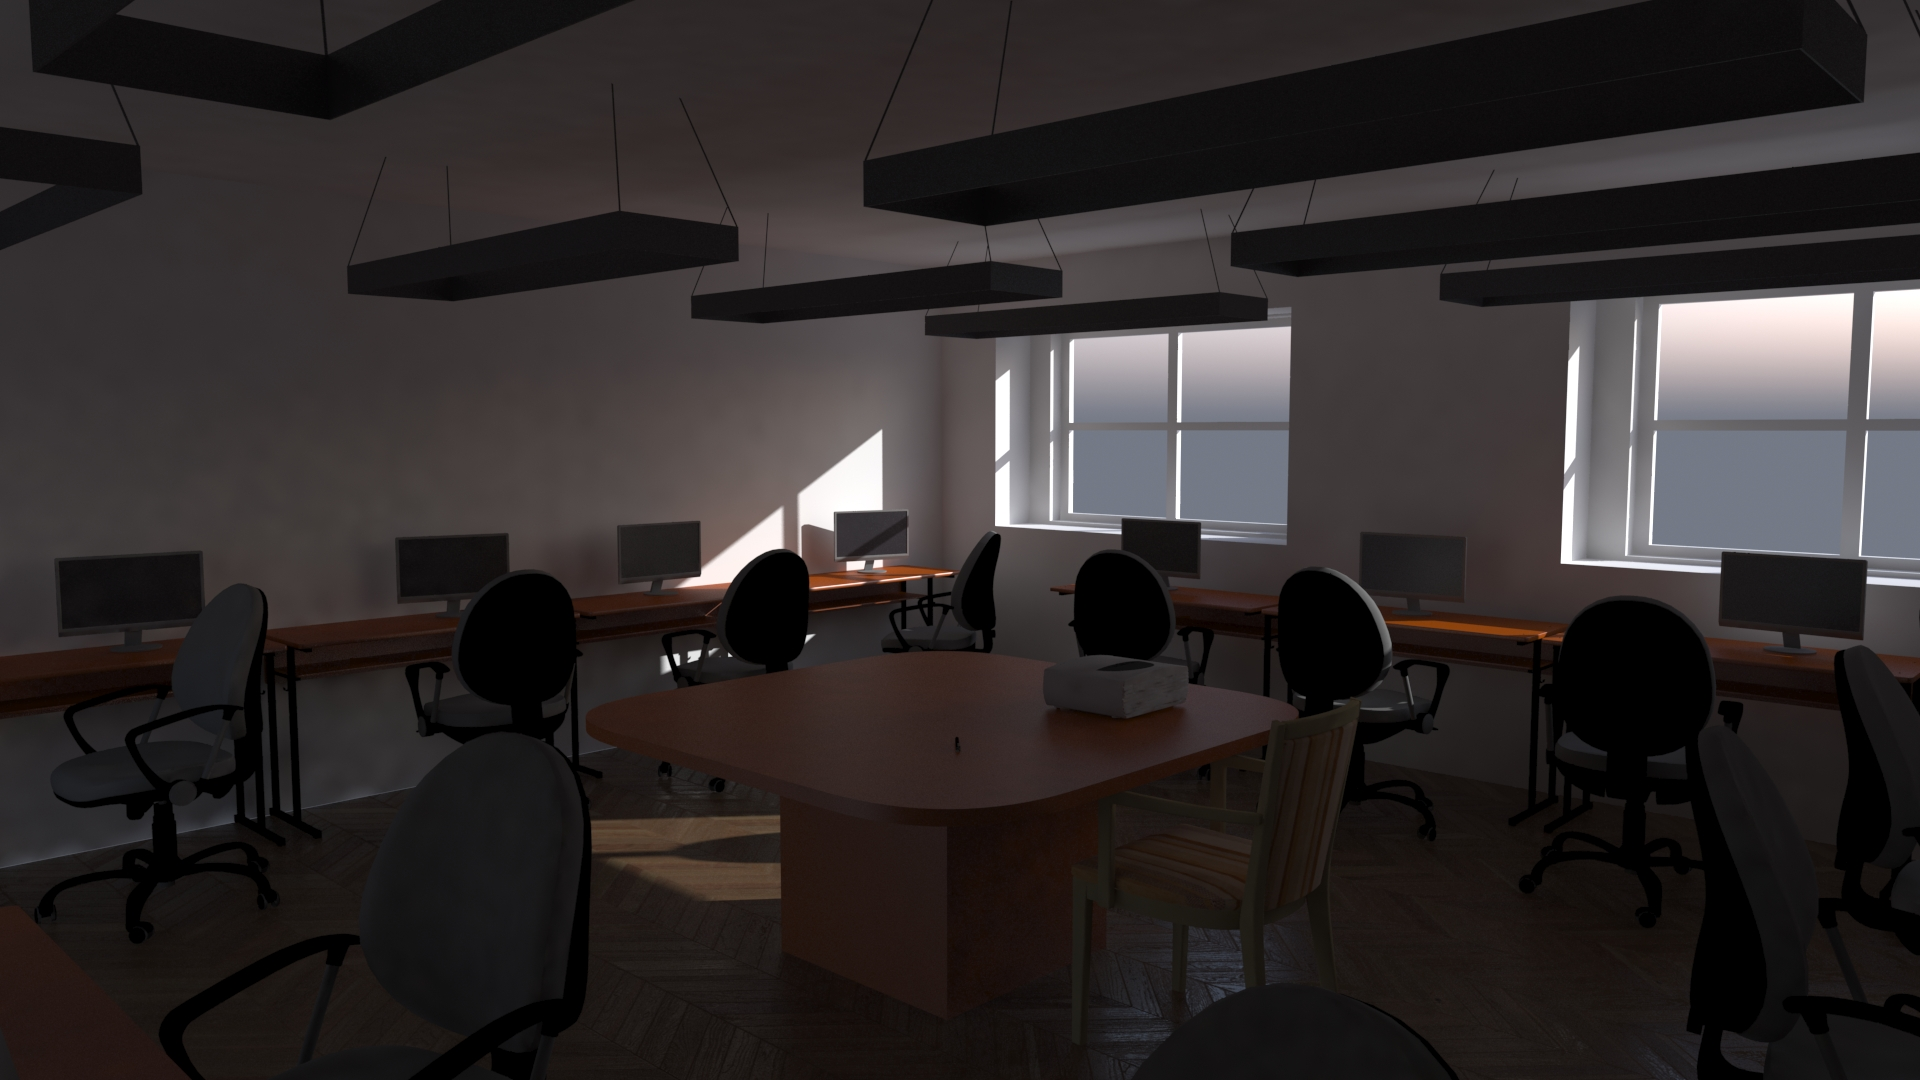
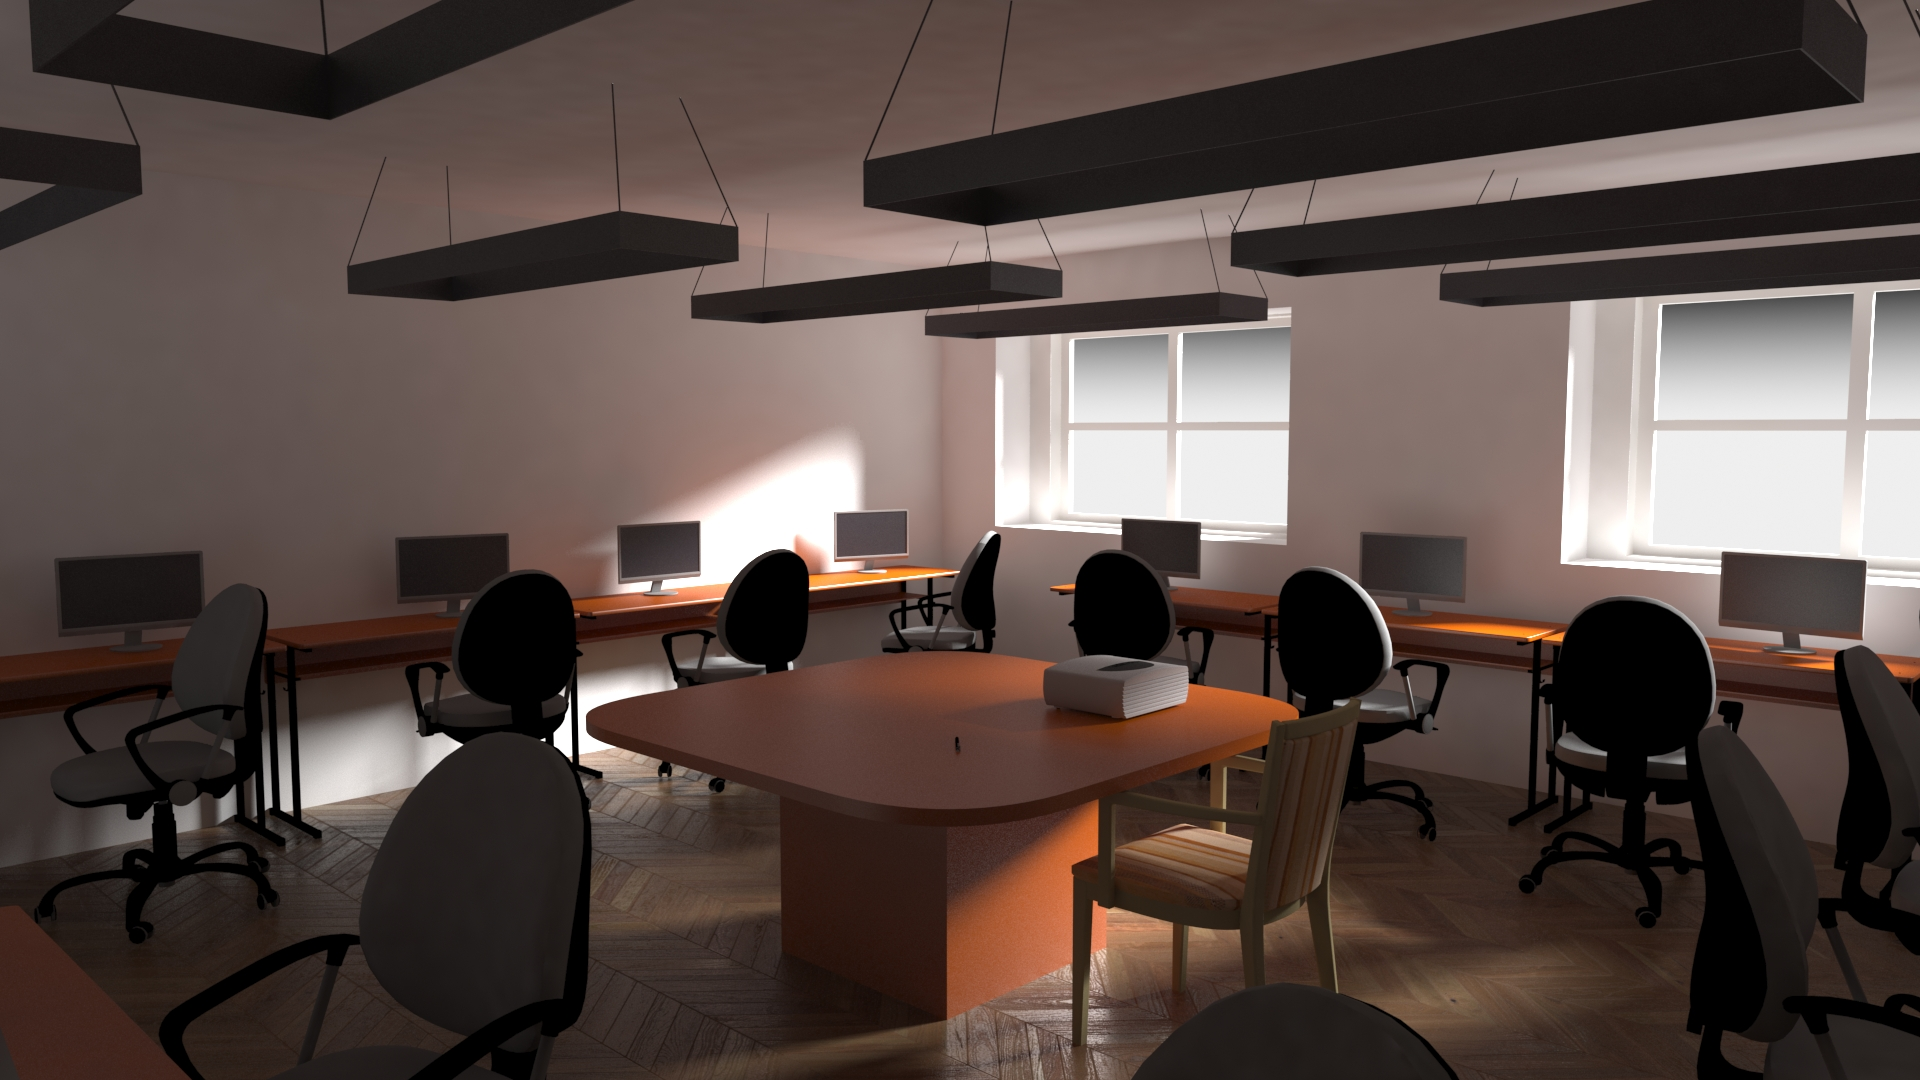
Visualization working, project data optimization.
Version ready for promotor's meeting on 26.11.2019.

- optimized way of presenting Visualization:
(one night asset with no lights, one day asset with no lights, assets for each light and direction separately) for each camera
- removed sun switching
- changed npm package for socket io
- prepared simple Visualization algotithm based on feelings
- provided 'updateVisualization' action refreshing whole interface relying on store state and data from sensor
- added some nice styling for dashboard
- fixed web socket not receiving data after refresh bug, but NOTE that each refresh now adds new serialport listener (check server index.js change)

diff --git a/client/src/components/LightsController.vue b/client/src/components/LightsController.vue
@@ -29,7 +29,7 @@
                     </p>
                     <div class="choices">
                         <span
-                            v-for="choice in envConfig.pos"
+                            v-for="choice in config.cameraPositions"
                             :key="choice"
                             class="choice"
                             :class="{ 'choice--active': choice === pos }"
@@ -38,28 +38,13 @@
                         >
                     </div>
                 </div>
-                <!-- <div class="controller__field">
-                    <p class="title">
-                        Pozycja słońca:
-                    </p>
-                    <div class="choices">
-                        <span
-                            v-for="choice in envConfig.sun"
-                            :key="choice"
-                            class="choice"
-                            :class="{ 'choice--active': choice === sun }"
-                            @click="switchSun(choice)"
-                            >{{ choice }}</span
-                        >
-                    </div>
-                </div> -->
                 <div class="controller__field">
                     <p class="title">
                         Kierunek świecenia:
                     </p>
                     <div class="choices">
                         <span
-                            v-for="choice in lightsConfig.types"
+                            v-for="choice in config.lightsTypes"
                             :key="choice"
                             class="choice"
                             :class="{
@@ -105,7 +90,7 @@
                 >
                     <p>{{ light.type === "D" ? light.index : "" }}</p>
                     <p>{{ light.type }}</p>
-                    <p>{{ light.value * 250 }} lx</p>
+                    <p>{{ light.value * 100 }}%</p>
                 </div>
             </div>
         </transition>
@@ -123,17 +108,11 @@ export default {
         };
     },
     computed: {
-        envConfig() {
-            return this.$store.state.envConfig;
-        },
-        lightsConfig() {
-            return this.$store.state.lightsConfig;
+        config() {
+            return this.$store.state.config;
         },
         pos() {
             return this.$store.state.pos;
-        },
-        sun() {
-            return this.$store.state.sun;
         },
         direction() {
             return this.$store.state.direction;
@@ -153,9 +132,6 @@ export default {
         switchPos(pos) {
             this.$store.dispatch("switchPos", pos);
         },
-        switchSun(sun) {
-            this.$store.dispatch("switchSun", sun);
-        },
         toggleDir(dir) {
             this.$store.dispatch("toggleDir", dir);
         },
@@ -163,6 +139,7 @@ export default {
             return require(`@/assets/img/svg/${tab}.svg`);
         },
         updateVisualization() {
+            this.$store.dispatch("showLoading", 500);
             this.$store.dispatch("updateVisualization");
         }
     }
@@ -218,12 +195,13 @@ export default {
     color: #888;
     align-self: center;
     margin-top: auto;
-    padding: 0.5rem 0;
+    padding: 0.5rem;
+    font-style: italic;
 
     & p {
-        font-style: italic;
         color: #aaa;
         font-size: 0.75rem;
+        text-align: right;
     }
 }
 </style>

diff --git a/client/src/store/index.js b/client/src/store/index.js
@@ -7,20 +7,16 @@ Vue.use(Vuex);
 
 export default new Vuex.Store({
     state: {
-        envConfig: {
-            pos: [1, 2],
-            sun: [0, 1]
+        config: {
+            cameraPositions: [1, 2],
+            lightsNum: 8,
+            lightsTypes: ["D", "G"]
         },
+        lights: [],
         lightLevel: 0,
-        lightsConfig: {
-            num: 8,
-            types: ["D", "G"]
-        },
-        sunValue: 1,
-        sun: 0,
-        pos: 2,
-        direction: ["D"],
-        lights: []
+        sunLevel: 1,
+        pos: 1,
+        direction: ["D"]
     },
     mutations: {
         updateLightLevel(state, data) {
@@ -32,9 +28,6 @@ export default new Vuex.Store({
         },
         switchPos(state, pos) {
             state.pos = pos;
-        },
-        switchSun(state, sun) {
-            state.sun = sun;
         },
         toggleDir(state, dir) {
             const dirIndex = state.direction.indexOf(dir);
@@ -60,10 +53,6 @@ export default new Vuex.Store({
         switchPos(context, pos) {
             context.commit("showLoading", 500);
             context.commit("switchPos", pos);
-        },
-        switchSun(context, sun) {
-            context.commit("showLoading", 500);
-            context.commit("switchSun", sun);
         },
         toggleDir(context, dir) {
             context.commit("toggleDir", dir);

diff --git a/client/src/assets/scss/components/_home.scss b/client/src/assets/scss/components/_home.scss
@@ -6,19 +6,32 @@
     position: relative;
     width: 100%;
     height: calc(100vh - $dashboard-height);
-    background-color: #2a2a2a;
+    background-color: $color-grey-dark;
     overflow: hidden;
 
     &__header {
+        position: relative;
         display: flex;
         justify-content: space-between;
         height: $dashboard-height;
         padding: 0 $dashboard-height * 0.4;
 
         & p {
+            z-index: 1000;
             color: #fff;
             font-size: 1.3rem;
             line-height: $dashboard-height;
+        }
+
+        &::before {
+            content: "";
+            position: absolute;
+            top: -975%;
+            left: -90%;
+            width: 100%;
+            height: 1000px;
+            transform: rotateZ(-45deg);
+            background-color: lighten($color-grey-dark, 5%);
         }
     }
 

diff --git a/server/index.js b/server/index.js
@@ -23,17 +23,21 @@ portArduino.pipe(parser);
 // app.use(bodyParser.json());
 app.use(cors());
 
-parser.on("open", () => console.log("serial port opened"));
+parser.on("open", () =>
+    console.log("Serial port for communication with Arduino opened.")
+);
 
-io.once("connect", socket => {
-    console.log("socket.io connection");
+io.on("connect", socket => {
+    console.log("Socket connection with Vue application established.");
 
     parser.on("data", data => {
         console.log("Data from Arduino:", data);
         socket.emit("light", data);
     });
 
-    socket.on("disconnect", () => console.log("disconnected"));
+    socket.on("disconnect", () => {
+        console.log("Socket disconnected from Vue application.");
+    });
 });
 
 server.listen(port, () => console.log(`Listening on port ${port}...`));

diff --git a/client/src/utils/init.js b/client/src/utils/init.js
@@ -1,17 +1,17 @@
 import store from "../store";
 
 export function initFillLights() {
-    const lightsConfig = store.state.lightsConfig;
+    const config = store.state.config;
 
-    for (let num = 1; num <= lightsConfig.num; num++) {
+    for (let num = 1; num <= config.lightsNum; num++) {
         for (
             let typeIndex = 0;
-            typeIndex < lightsConfig.types.length;
+            typeIndex < config.lightsTypes.length;
             typeIndex++
         ) {
             const light = {};
             light.index = num;
-            light.type = lightsConfig.types[typeIndex];
+            light.type = config.lightsTypes[typeIndex];
             light.value = 0;
             light.state = false;
             light.row = num % 4 ? num % 4 : 4;

diff --git a/client/src/utils/lights.js b/client/src/utils/lights.js
@@ -4,8 +4,8 @@ function evalLightLevel(level, light) {
     const direction = store.state.direction;
 
     if (direction.includes(light.type)) {
-        if (level < 25) return 1; // all lights to max when it's dark in the classroom
-        if (level < 250) return light.row / 4; // all lights medium when its quite well lighted
+        if (level < 170) return 1; // all lights to max when it's dark in the classroom
+        if (level < 500) return light.row / 4; // all lights medium when its quite well lighted
         return light.row / 8;
     }
     return 0; // if direction disabled, opacity 0

diff --git a/client/src/assets/scss/components/_controller.scss b/client/src/assets/scss/components/_controller.scss
@@ -1,10 +1,26 @@
 .controller {
+    position: relative;
     width: 15%;
     height: 100vh;
-    z-index: 1000;
     display: flex;
     flex-direction: column;
     background-color: $color-grey-dark;
+    overflow: hidden;
+
+    &::before {
+        content: "";
+        position: absolute;
+        top: 0;
+        left: 0;
+        width: 100%;
+        height: 100%;
+        transform: rotateZ(45deg);
+        background-color: lighten($color-grey-dark, 5%);
+    }
+
+    & * {
+        z-index: 1000;
+    }
 
     &__menu {
         display: flex;

diff --git a/client/src/components/Visualization.vue b/client/src/components/Visualization.vue
@@ -43,12 +43,9 @@ export default {
             return this.$store.state.lights;
         },
         sunValue() {
-            return this.$store.state.lightLevel > 1000
+            return this.$store.state.lightLevel > 700
                 ? 1
-                : this.$store.state.lightLevel / 1000;
-        },
-        sun() {
-            return this.$store.state.sun;
+                : this.$store.state.lightLevel / 700;
         },
         pos() {
             return this.$store.state.pos;
